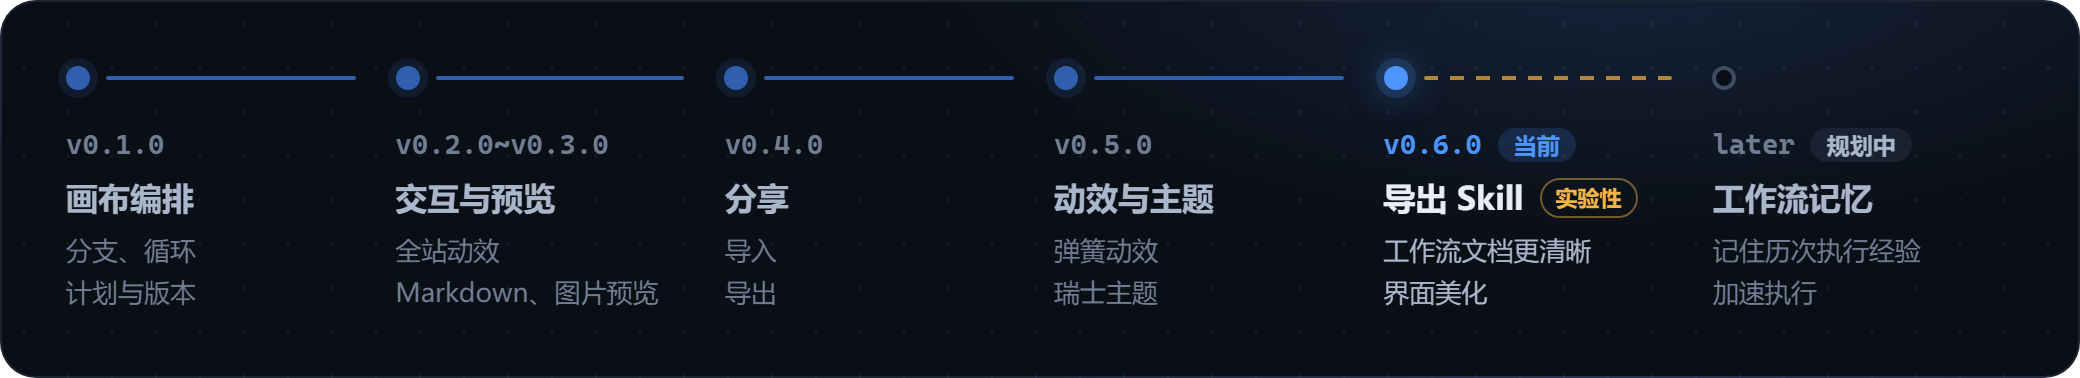
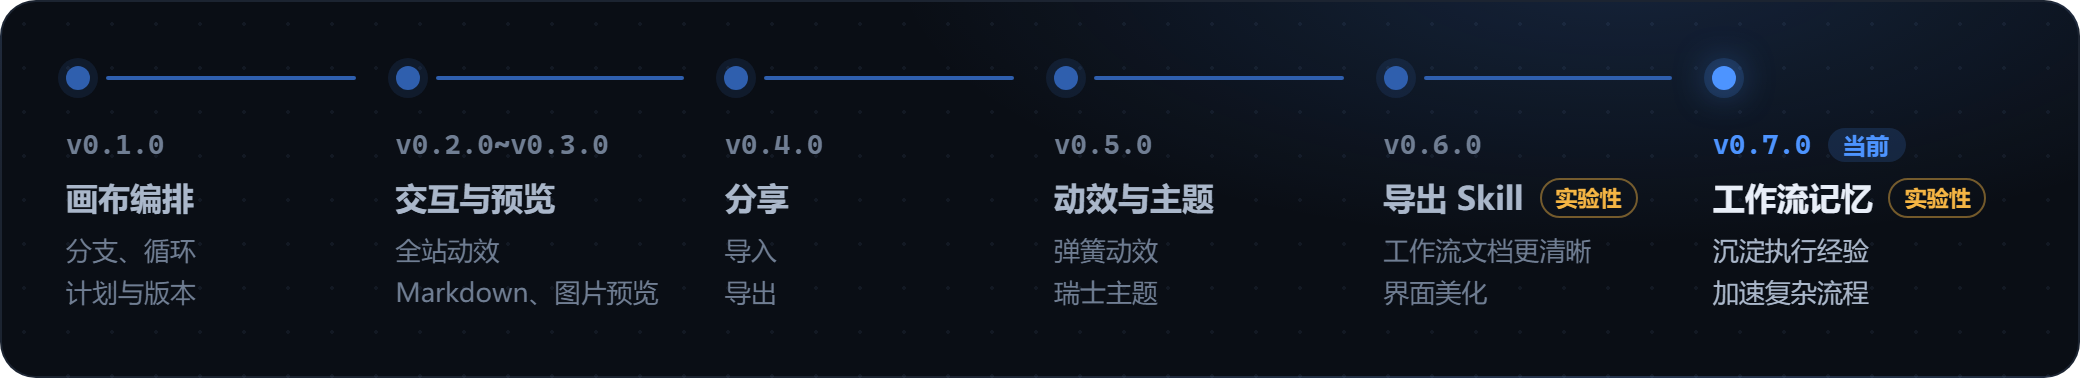
docs(changelog): 落成 0.7.0 - 2026-10-25；README 加「工作流记忆（实验性）」一节并征集反馈，版本线图重做

diff --git a/README.en.md b/README.en.md
@@ -80,8 +80,21 @@ Turn on **Record run state** in **Workflow settings**. Every run then leaves a r
 | Versions | Save versions with notes, compare differences, switch back at any time |
 | Import / export | Pack a workflow and the versions you pick into one `.wflite.zip`, optionally with the files and Skills it uses; before importing, see where each item will go |
 | Export as a Skill (beta) | Compile one version into a skill (SKILL.md, a task description per step, plus the files and Skills you pack) that works without the plugin; download a zip or install it straight into `~/.agents/skills` |
+| Memory (beta) | A workflow keeps what worked and its pitfalls as a skill and follows it on the next run; manage and version it on the **Memory** page, and export it with a workflow pack |
 | Workflow hub | One place for run records across sessions, all workflows and their versions, and plugin settings |
 | Interface | Four light and four dark color themes that follow DSH light or dark mode; English / 中文 |
+
+## Workflow memory (beta)
+
+A complex workflow has to re-explore the environment and re-learn its pitfalls on every run. Memory lets a workflow keep what worked and follow it next time, with the aim of speeding up complex workflows.
+
+- **Adding it**: turn it on for a single step (on the step, or click the **+** beside a step and pick **Memory**), or drag **Memory** from **Basics** in the step library onto the canvas as one shared by the whole workflow. When you add it, pick an existing entry or create a new one; several workflows can share the same one.
+- **What it keeps**: an entry is a skill folder. The "Quick path" at the top of `SKILL.md` is the cheapest way to do the task next time, a series of commands or script calls you can copy as they are; below it come the steps, the pitfalls and how to verify, and the scripts and templates you use often sit in the same folder.
+- **Who writes it**: each step reports what it learned in its reply, and when the workflow ends the model folds that into the memory. You don't have to write anything.
+- **Managing it**: the **Memory** page in the workflow hub lets you rename an entry, edit its description, browse its files, save versions, switch back to an older one, and see which workflows use it. When you export a workflow pack or a Skill, you can choose whether to include the memory content.
+- **Known limits**: instances running at the same time that change the same memory are not locked, so the later write overwrites the earlier one; re-exporting a Skill over an installed copy overwrites the memory it has built up.
+
+**We are still checking whether it helps, and we'd like your feedback.** In early trials that repeated one workflow, we saw no steady speedup; the "Quick path" was added afterwards, and whether it helps needs more real workflows to tell. If you try memory on a complex workflow, please tell us on [Issues](https://github.com/xiaoso456/dsh-workflow-lite/issues): did the time of repeated runs change, was what the memory recorded useful, and what was awkward.
 
 ## Path variables
 
@@ -89,7 +102,7 @@ Resource paths and the output root accept two variables, replaced with real loca
 
 | Variable | Where | Becomes |
 |---|---|---|
-| `{workflow}` | File and folder paths in resources, e.g. `{workflow}/memory/notes.md` | The workflow's own folder (by default `~/.dsh/workflow-lite/assets/<workflow name>/`). Every workspace reads and writes the same copy, and it moves with the workflow when you rename or export it |
+| `{workflow}` | File and folder paths in resources, e.g. `{workflow}/refs/notes.md` | The workflow's own folder (by default `~/.dsh/workflow-lite/assets/<workflow name>/`). Every workspace reads and writes the same copy, and it moves with the workflow when you rename or export it |
 | `{instance}` | **Output root** in **Workflow settings**, e.g. the default `.workflow-lite/runs/{instance}/out` | The id of this run's instance, so each run keeps its outputs apart |
 
 Paths written as `{assets}/…` by earlier versions still work and become `{workflow}/…` when the workflow is opened.

diff --git a/README.md b/README.md
@@ -80,8 +80,21 @@ dsh web
 | 版本管理 | 保存版本、添加说明、对比差异、随时切换 |
 | 导入导出 | 把工作流和选中的版本打成一个 `.wflite.zip`，可以连同用到的文件与 Skill 一起打包；导入前列出每样东西放到哪 |
 | 导出成 Skill（实验性） | 把一个版本编译成 skill（SKILL.md + 每步的任务描述 + 打包的文件与 Skill），不装插件也能用；下载 zip，或直接装到本机的 `~/.agents/skills` |
+| 记忆（实验性） | 工作流把跑通的做法和踩过的坑记成 skill，下次执行照着走；可以在「记忆」页管理、存版本，随工作流包导出 |
 | 工作流中心 | 集中管理各会话的执行记录、全部工作流与版本，以及插件设置 |
 | 界面 | 浅色、深色各四套配色主题，跟随 DSH 自动切换；中文 / English |
+
+## 工作流记忆（实验性）
+
+复杂的工作流每次执行都要重新摸一遍环境、重新踩一遍坑。记忆让工作流把跑通的做法记下来，下次照着走，目的是加快复杂工作流的执行。
+
+- **怎么加**：给单个步骤开一份（在步骤上开启，或点步骤右侧的「＋」选「记忆」），或从步骤库的「基础」里把「记忆」拖到画布上，作为整个工作流共用的一份。加的时候选已有的一条，或新建一条；多个工作流可以共用同一条。
+- **记什么**：一条记忆是一个 skill 文件夹。`SKILL.md` 开头的「快速路径」是下次最省事的走法，一串可以直接复制的命令或脚本调用；后面是步骤、踩过的坑和验证方法，常用的脚本和模板放在同一个文件夹里。
+- **谁来写**：每个步骤把学到的经验写在回复里，工作流结束时由模型整理进记忆，不需要自己动手。
+- **怎么管**：工作流中心的「记忆」页可以改名称和描述、查看文件、存版本、切回旧版本，也能看哪些工作流在用；导出工作流包或 Skill 时，可以选带不带记忆的内容。
+- **已知限制**：多个实例同时改同一条记忆不加锁，后写的会盖掉先写的；重新导出并覆盖安装 Skill 时，已装 skill 里攒下的记忆会被覆盖。
+
+**效果还在验证，欢迎反馈。** 早期在同一个工作流上重复执行的试验里，没有看到稳定的提速；后来加入了「快速路径」，是否有用需要更多真实的工作流来检验。如果你在复杂工作流上用了记忆，请到 [Issues](https://github.com/xiaoso456/dsh-workflow-lite/issues) 说说：同一个工作流前后几次执行的耗时有没有变化，记忆里记下的内容有没有用，哪里不好用。
 
 ## 路径变量
 
@@ -89,7 +102,7 @@ dsh web
 
 | 变量 | 写在哪 | 换成什么 |
 |---|---|---|
-| `{workflow}` | 资源里的文件、文件夹路径，如 `{workflow}/memory/notes.md` | 这个工作流自己的目录（默认 `~/.dsh/workflow-lite/assets/<工作流名>/`）。在哪个工作区执行都读写同一份，工作流改名、导出时一起带走 |
+| `{workflow}` | 资源里的文件、文件夹路径，如 `{workflow}/refs/notes.md` | 这个工作流自己的目录（默认 `~/.dsh/workflow-lite/assets/<工作流名>/`）。在哪个工作区执行都读写同一份，工作流改名、导出时一起带走 |
 | `{instance}` | 「工作流设置」里的「产出根目录」，如默认值 `.workflow-lite/runs/{instance}/out` | 这次执行的实例 id，每次执行的产出各放一处 |
 
 旧版本写的 `{assets}/…` 照样能用，打开工作流时会自动改成 `{workflow}/…`。

diff --git a/CHANGELOG.md b/CHANGELOG.md
@@ -5,11 +5,15 @@
 格式基于 [Keep a Changelog](https://keepachangelog.com/zh-CN/1.1.0/)，
 版本号遵循 [Semantic Versioning](https://semver.org/lang/zh-CN/)。
 
-## [Unreleased]
+## [0.7.0] - 2026-10-25
+
+这一版的重点是「工作流记忆」（实验性）：工作流把跑通的做法和踩过的坑记下来，下次执行少查几次、少想几轮，目的是加快复杂工作流的执行；效果还在验证，欢迎反馈。另外步骤库的分组可以收起，画布上加步骤改成右键。
+
+**升级不需要做任何事**：旧工作流里的 `{assets}` 路径打开时自动改成 `{workflow}`；只有新版保存的工作流再用 0.6.0 及更早的版本打开时受影响，见「其他变更」。
 
 ### Added
 
-- 新增「记忆」：给步骤开记忆或加一张工作流记忆后，每次执行都读写同一份 skill，把跑通的做法和踩过的坑沉淀下来，并整理出「快速路径」让下次一条条照着做、少查几次少想几轮；记忆卡上的说明可以改。
+- 新增实验性的「记忆」：给步骤开记忆或加一张工作流记忆后，每次执行都读写同一份 skill，把跑通的做法和踩过的坑沉淀下来，并整理出「快速路径」让下次一条条照着做、少查几次少想几轮；记忆卡上的说明可以改。
 - 新增记忆库：记忆分工作流记忆和步骤记忆，加记忆时可以选已有的一条或新建一条，多个工作流能共用同一条；同时运行的实例改同一条记忆时不加锁，后写的会盖掉先写的。
 - 工作流中心新增「记忆」页，可以改记忆的名称和描述、查看文件、看哪些工作流在用、删掉不用的记忆。
 - 记忆支持版本：在「版本」对话框的「记忆」一栏或「记忆」页存版本、切回旧版本，切换前自动存一份现在的内容；存工作流版本时可以勾「连同记忆」一起存。
